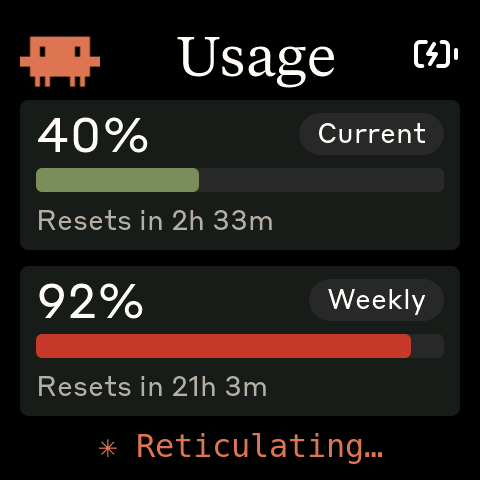
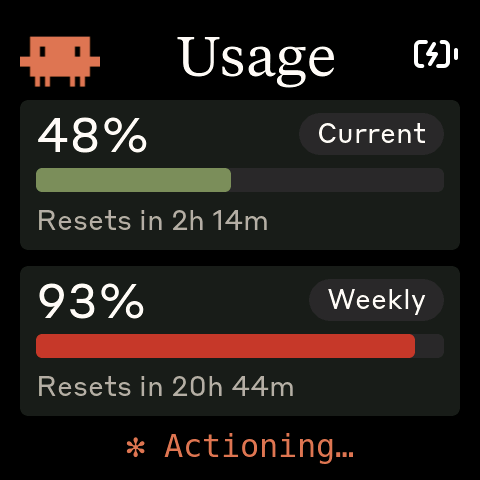
Split the weekly bar into All models / Fable stripes
Per review: the Weekly bar keeps its exact position and outer envelope but
splits in half when a Fable allowance exists — all-models stripe on top,
Fable stripe below in the Claude usage-settings blue (new THEME_BLUE
token). A "Fable NN%" legend rides the right end of the shared reset row,
its blue label binding it to the stripe. Stripe geometry derives from the
existing bar_h, so every breakpoint (including 240x240) gets the same
treatment with no per-breakpoint layout constants.

diff --git a/firmware/src/ui.cpp b/firmware/src/ui.cpp
@@ -36,14 +36,13 @@ struct Layout {
     int16_t usage_bar_y;
     int16_t usage_reset_y;
     int16_t bar_h;
-    // Weekly-card Fable row — only rendered when the daemon sends a weekly
+    // Weekly-card Fable split — only rendered when the daemon sends a weekly
     // Fable (scoped-model) percent; the card is pixel-identical without it.
-    int16_t fable_main_bar_y;  // main weekly bar y while the Fable row is shown
-    int16_t fable_main_bar_h;  // main weekly bar height while the Fable row is shown
-    int16_t fable_row_y;       // Fable thin-bar y
-    int16_t fable_bar_h;       // Fable thin-bar height
-    int16_t fable_bar_w;       // Fable thin-bar width; 0 = text-only fallback (small screens)
-    const lv_font_t* fable_font;  // "All models" / "Fable" / percent labels
+    // The weekly bar keeps its exact position and outer envelope but splits
+    // into two stacked stripes (all-models on top, Fable in blue below), and a
+    // "Fable NN%" legend rides the right end of the shared reset row. Stripe
+    // geometry derives from usage_bar_y/bar_h, so only the legend font is here.
+    const lv_font_t* fable_font;  // "Fable NN%" legend on the reset row
     int16_t panel_pad_x, panel_pad_y;
     int16_t pill_pad_x, pill_pad_y;
     const lv_font_t* title_font;     // screen title / clock
@@ -117,11 +116,6 @@ static void compute_layout(const BoardCaps& c) {
         L.usage_panel_gap = 16;
         L.usage_bar_y = 56;
         L.usage_reset_y = 94;
-        L.fable_main_bar_y = 52;
-        L.fable_main_bar_h = 14;
-        L.fable_row_y = 76;
-        L.fable_bar_h = 12;
-        L.fable_bar_w = 120;
         L.fable_font = &font_styrene_16;
         L.bt_info_panel_h = 160;
         L.bt_reset_zone_h = 110;
@@ -137,11 +131,6 @@ static void compute_layout(const BoardCaps& c) {
         L.usage_panel_gap = 12;
         L.usage_bar_y = 48;
         L.usage_reset_y = 78;
-        L.fable_main_bar_y = 46;
-        L.fable_main_bar_h = 12;
-        L.fable_row_y = 64;
-        L.fable_bar_h = 10;
-        L.fable_bar_w = 90;
         L.fable_font = &font_styrene_14;
         L.bt_info_panel_h = 140;
         L.bt_reset_zone_h = 90;
@@ -162,14 +151,7 @@ static void compute_layout(const BoardCaps& c) {
         L.usage_bar_y = 30;
         L.usage_reset_y = 46;
         L.bar_h = 12;
-        // No room for a second bar row in a 74px panel: the Fable reading
-        // degrades to right-aligned text on the shared reset row.
-        L.fable_main_bar_y = 30;
-        L.fable_main_bar_h = 12;
-        L.fable_row_y = 0;
-        L.fable_bar_h = 0;
-        L.fable_bar_w = 0;
-        L.fable_font = &font_styrene_14;
+        L.fable_font = &font_styrene_12;
         L.panel_pad_x = 10;
         L.panel_pad_y = 6;
         L.pill_pad_x = 8;
@@ -216,6 +198,7 @@ static void compute_layout(const BoardCaps& c) {
 #define COL_AMBER     THEME_AMBER
 #define COL_RED       THEME_RED
 #define COL_BAR_BG    THEME_BAR_BG
+#define COL_BLUE      THEME_BLUE
 
 // ---- Usage screen widgets (single non-splash view) ----
 static lv_obj_t* usage_container;
@@ -238,12 +221,11 @@ static lv_obj_t* lbl_weekly_label;
 static lv_obj_t* lbl_weekly_reset;
 static lv_obj_t* panel_session = nullptr;
 static lv_obj_t* panel_weekly = nullptr;
-// Fable row inside panel_weekly — hidden unless the daemon reports a weekly
+// Fable stripe inside panel_weekly — hidden unless the daemon reports a weekly
 // Fable (scoped-model) allowance. Shares the Weekly reset line (same instant).
-static lv_obj_t* lbl_fable_allmodels = nullptr;  // "All models" caption for the main bar
-static lv_obj_t* lbl_fable_name = nullptr;       // "Fable"
-static lv_obj_t* bar_fable = nullptr;            // thin Fable bar
-static lv_obj_t* lbl_fable_pct = nullptr;        // Fable percent (or "Fable NN%" in text-only mode)
+static lv_obj_t* lbl_fable_name = nullptr;       // "Fable" legend text (blue)
+static lv_obj_t* bar_fable = nullptr;            // lower stripe of the split weekly bar
+static lv_obj_t* lbl_fable_pct = nullptr;        // Fable percent in the legend
 // Enterprise-only widgets inside panel_session
 static lv_obj_t* lbl_session_pct_sym = nullptr;  // "%" in smaller font
 static lv_obj_t* lbl_spending_desc = nullptr;     // "of your monthly budget"
@@ -562,23 +544,21 @@ static void init_usage_screen(lv_obj_t* scr) {
     // Recolor enabled so enterprise period box can color pace and reset separately
     lv_label_set_recolor(lbl_weekly_reset, true);
 
-    // Fable row widgets — created hidden; ui_update positions and reveals them
-    // only when the payload carries a weekly Fable percent.
-    lbl_fable_allmodels = lv_label_create(panel_weekly);
-    lv_label_set_text(lbl_fable_allmodels, "All models");
-    lv_obj_set_style_text_font(lbl_fable_allmodels, L.fable_font, 0);
-    lv_obj_set_style_text_color(lbl_fable_allmodels, COL_DIM, 0);
-    lv_obj_add_flag(lbl_fable_allmodels, LV_OBJ_FLAG_HIDDEN);
+    // Fable widgets — created hidden; ui_update positions and reveals them
+    // only when the payload carries a weekly Fable percent. The stripe reuses
+    // the weekly bar's exact envelope: top half = bar_weekly, bottom half =
+    // bar_fable, 2px apart.
+    int fable_stripe_h = (L.bar_h - 2) / 2;
+    bar_fable = make_bar(panel_weekly, 0, L.usage_bar_y + fable_stripe_h + 2,
+                         L.content_w - 2 * L.panel_pad_x, fable_stripe_h);
+    lv_obj_set_style_bg_color(bar_fable, COL_BLUE, LV_PART_INDICATOR);
+    lv_obj_add_flag(bar_fable, LV_OBJ_FLAG_HIDDEN);
 
     lbl_fable_name = lv_label_create(panel_weekly);
     lv_label_set_text(lbl_fable_name, "Fable");
     lv_obj_set_style_text_font(lbl_fable_name, L.fable_font, 0);
-    lv_obj_set_style_text_color(lbl_fable_name, COL_DIM, 0);
+    lv_obj_set_style_text_color(lbl_fable_name, COL_BLUE, 0);
     lv_obj_add_flag(lbl_fable_name, LV_OBJ_FLAG_HIDDEN);
-
-    bar_fable = make_bar(panel_weekly, 0, L.fable_row_y,
-                         L.fable_bar_w > 0 ? L.fable_bar_w : 10, L.fable_bar_h > 0 ? L.fable_bar_h : 10);
-    lv_obj_add_flag(bar_fable, LV_OBJ_FLAG_HIDDEN);
 
     lbl_fable_pct = lv_label_create(panel_weekly);
     lv_label_set_text(lbl_fable_pct, "");
@@ -697,42 +677,30 @@ void ui_update(const UsageData* data) {
 
     // Weekly Fable (scoped-model) allowance — only some plans have one. The
     // sentinel is key-absence (-1), never 0: 0% used is a real reading. With no
-    // allowance every Fable widget stays hidden and the main bar keeps its
-    // original geometry, so the card renders exactly as it always has.
+    // allowance every Fable widget stays hidden and the weekly bar keeps its
+    // full height, so the card renders exactly as it always has. With one, the
+    // bar splits in half inside its exact envelope — all-models stripe on top,
+    // blue Fable stripe below — and a "Fable NN%" legend rides the right end
+    // of the shared reset row (both limits reset at the same instant).
     bool show_fable = !data->enterprise && data->fable_pct >= 0.0f;
-    bool fable_bar_mode = show_fable && L.fable_bar_w > 0;
-    lv_obj_set_pos(bar_weekly, 0, fable_bar_mode ? L.fable_main_bar_y : L.usage_bar_y);
-    lv_obj_set_height(bar_weekly, fable_bar_mode ? L.fable_main_bar_h : L.bar_h);
+    int fable_stripe_h = (L.bar_h - 2) / 2;
+    lv_obj_set_height(bar_weekly, show_fable ? fable_stripe_h : L.bar_h);
     if (show_fable) {
         int f_pct = (int)(data->fable_pct + 0.5f);
-        int lbl_y;  // centers the row's labels on the thin bar
-        if (fable_bar_mode) {
-            lbl_y = L.fable_row_y +
-                    (L.fable_bar_h - (int)lv_font_get_line_height(L.fable_font)) / 2;
-            lv_label_set_text_fmt(lbl_fable_pct, "%d%%", f_pct);
-            lv_obj_align(lbl_fable_pct, LV_ALIGN_TOP_RIGHT, 0, lbl_y);
-            lv_obj_align_to(bar_fable, lbl_fable_pct, LV_ALIGN_OUT_LEFT_MID, -8, 0);
-            lv_obj_align_to(lbl_fable_name, bar_fable, LV_ALIGN_OUT_LEFT_MID, -8, 0);
-            lv_obj_align(lbl_fable_allmodels, LV_ALIGN_TOP_LEFT, 0, lbl_y);
-            lv_bar_set_value(bar_fable, f_pct, LV_ANIM_ON);
-            lv_obj_set_style_bg_color(bar_fable, pct_color(data->fable_pct), LV_PART_INDICATOR);
-            lv_obj_clear_flag(lbl_fable_allmodels, LV_OBJ_FLAG_HIDDEN);
-            lv_obj_clear_flag(lbl_fable_name, LV_OBJ_FLAG_HIDDEN);
-            lv_obj_clear_flag(bar_fable, LV_OBJ_FLAG_HIDDEN);
-        } else {
-            // Small screens: no room for a second bar row — the Fable reading
-            // rides the shared reset row as right-aligned text.
-            lv_label_set_text_fmt(lbl_fable_pct, "Fable %d%%", f_pct);
-            lv_obj_align(lbl_fable_pct, LV_ALIGN_TOP_RIGHT, 0, L.usage_reset_y);
-            lv_obj_add_flag(lbl_fable_allmodels, LV_OBJ_FLAG_HIDDEN);
-            lv_obj_add_flag(lbl_fable_name, LV_OBJ_FLAG_HIDDEN);
-            lv_obj_add_flag(bar_fable, LV_OBJ_FLAG_HIDDEN);
-        }
+        lv_bar_set_value(bar_fable, f_pct, LV_ANIM_ON);
+        // Legend, vertically centered against the reset text's line box.
+        lv_label_set_text_fmt(lbl_fable_pct, "%d%%", f_pct);
+        int legend_y = L.usage_reset_y +
+                       ((int)lv_font_get_line_height(L.reset_font) -
+                        (int)lv_font_get_line_height(L.fable_font)) / 2;
+        lv_obj_align(lbl_fable_pct, LV_ALIGN_TOP_RIGHT, 0, legend_y);
+        lv_obj_align_to(lbl_fable_name, lbl_fable_pct, LV_ALIGN_OUT_LEFT_MID, -6, 0);
+        lv_obj_clear_flag(bar_fable, LV_OBJ_FLAG_HIDDEN);
+        lv_obj_clear_flag(lbl_fable_name, LV_OBJ_FLAG_HIDDEN);
         lv_obj_clear_flag(lbl_fable_pct, LV_OBJ_FLAG_HIDDEN);
     } else {
-        lv_obj_add_flag(lbl_fable_allmodels, LV_OBJ_FLAG_HIDDEN);
-        lv_obj_add_flag(lbl_fable_name, LV_OBJ_FLAG_HIDDEN);
         lv_obj_add_flag(bar_fable, LV_OBJ_FLAG_HIDDEN);
+        lv_obj_add_flag(lbl_fable_name, LV_OBJ_FLAG_HIDDEN);
         lv_obj_add_flag(lbl_fable_pct, LV_OBJ_FLAG_HIDDEN);
     }
 

diff --git a/firmware/src/theme.h b/firmware/src/theme.h
@@ -12,3 +12,4 @@
 #define THEME_AMBER    lv_color_hex(0xd97757)
 #define THEME_RED      lv_color_hex(0xc0392b)
 #define THEME_BAR_BG   lv_color_hex(0x2a2a28)   // unfilled bar track
+#define THEME_BLUE     lv_color_hex(0x4a7dea)   // Fable weekly bar (matches the Claude usage-settings blue)
